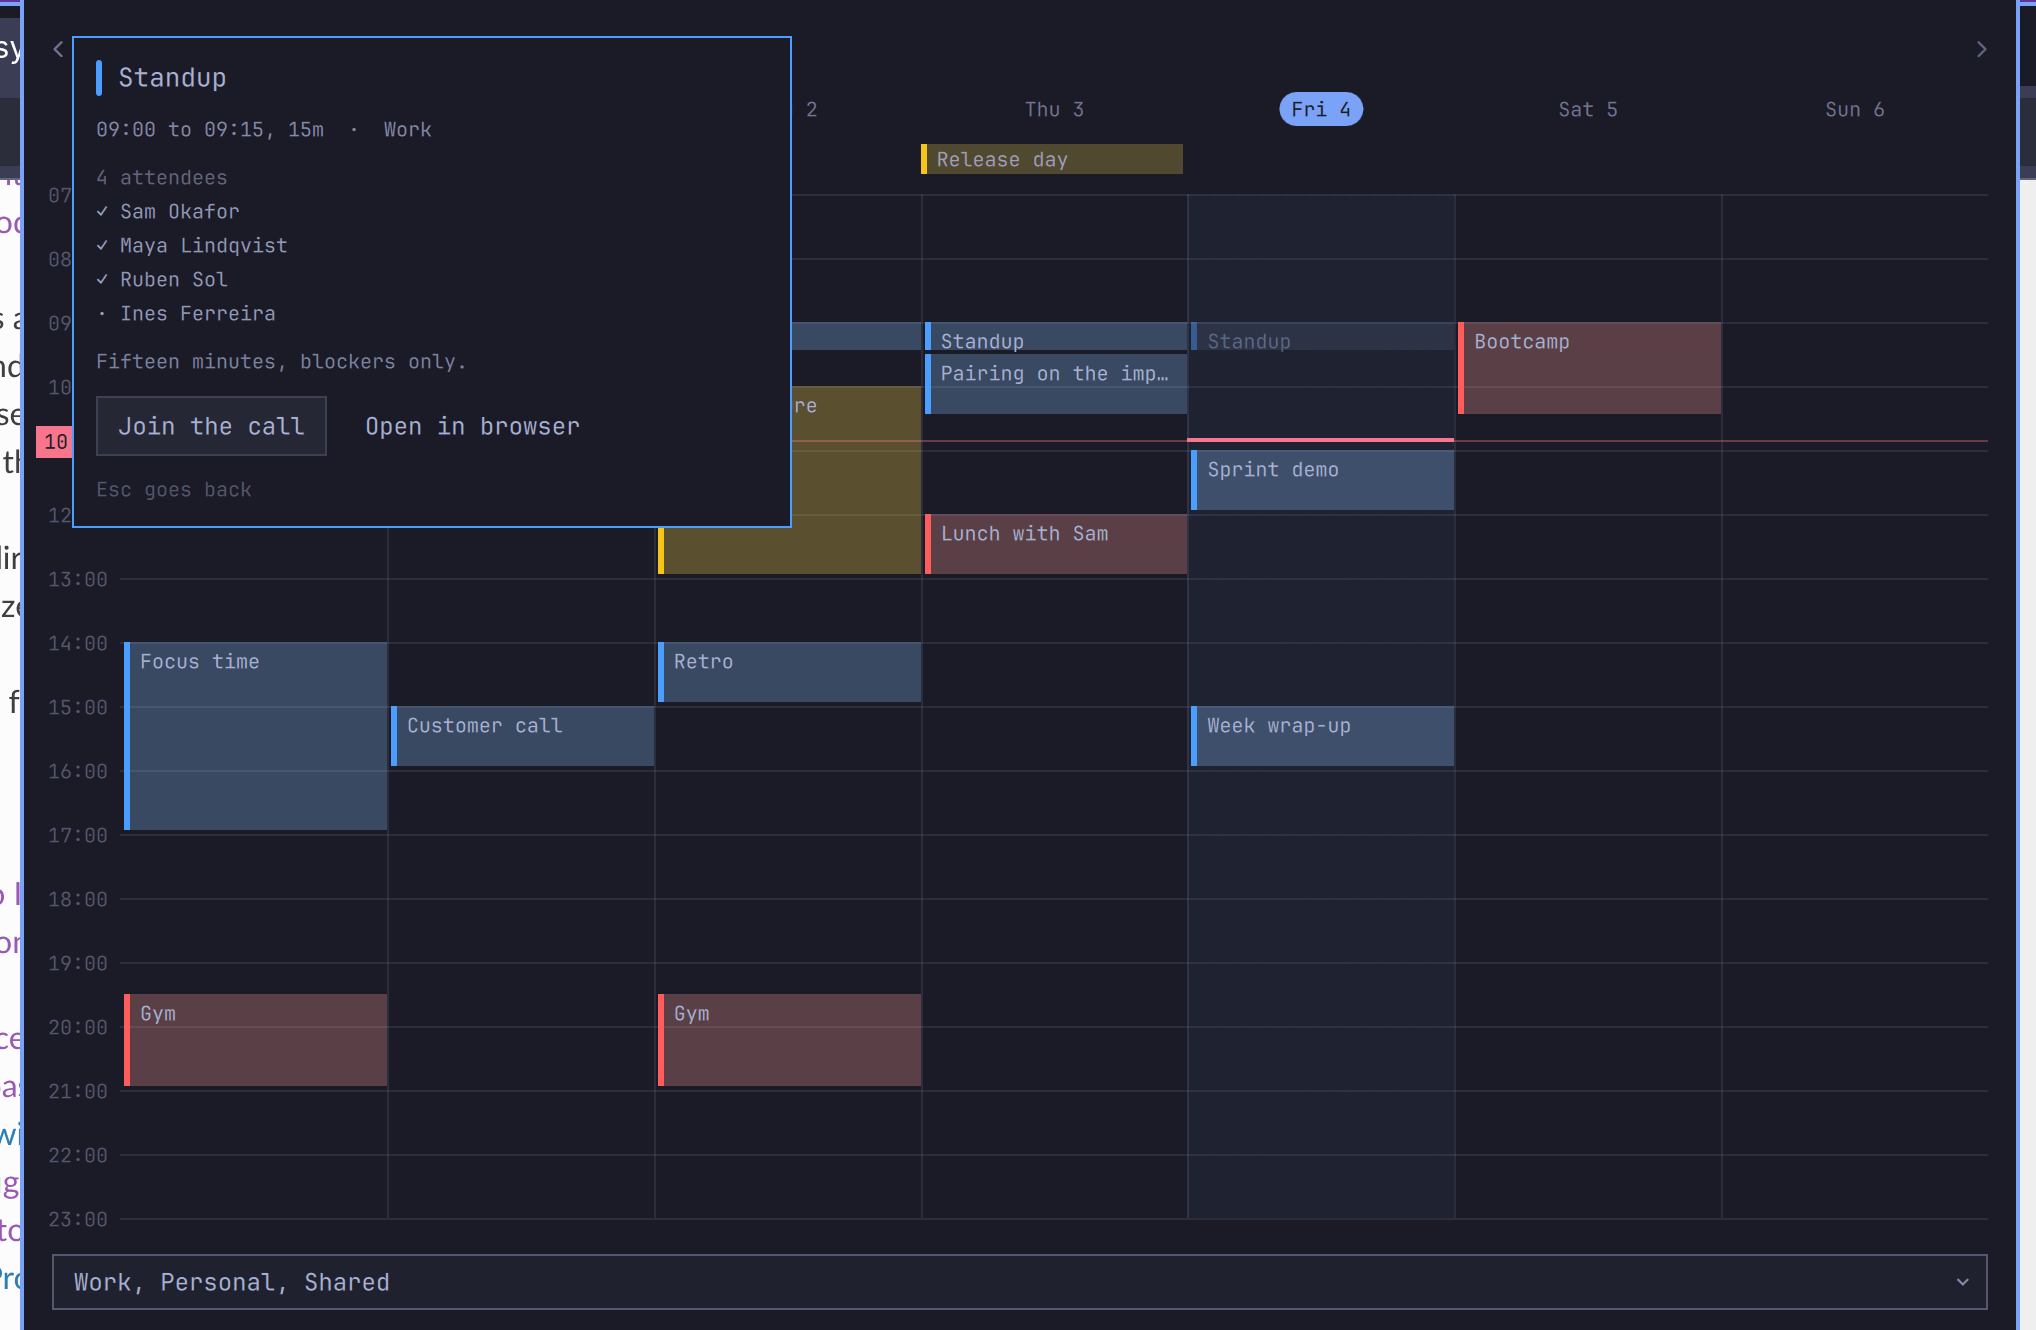
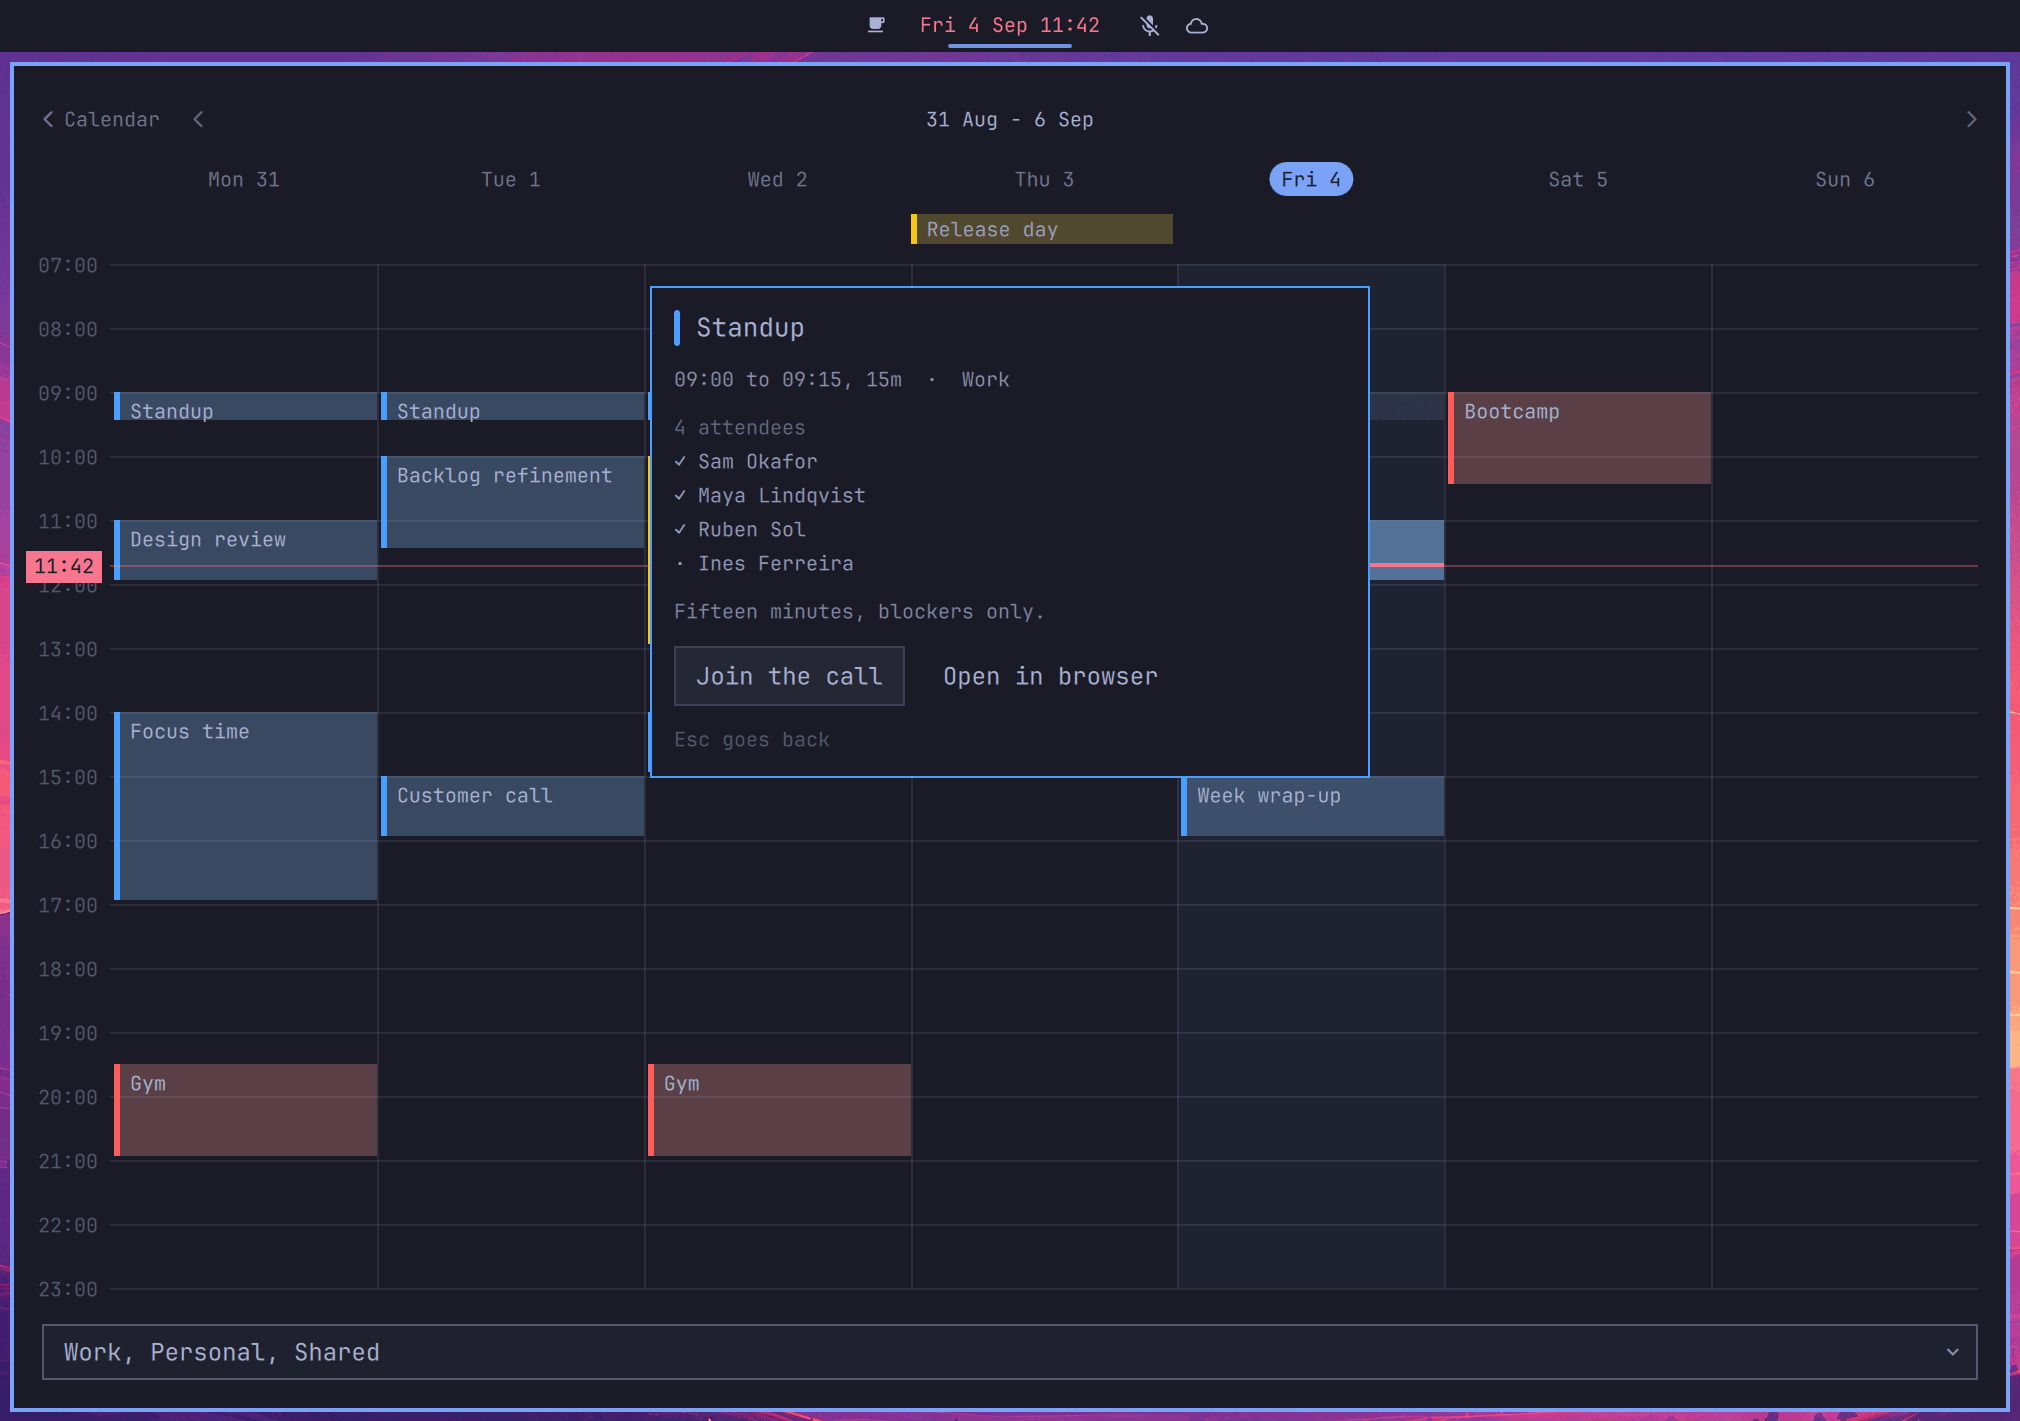
Retake the README screenshots on a clean workspace
All four now: shot on an empty workspace (no windows), include the centred
slice of the top bar above the popup, and are cropped to a uniform
week/month width with even margins — measured from the card's own bounds
rather than eyeballed.

Also:
- Panel.qml: measureAnchor() floats the detail card over the grid when it's
  opened without a block to anchor to (keyboard, agenda shortcut) instead of
  pinning it to the top-left corner.
- rfdegroot.clock.test gains geom() (card x/y/w/h) for repeatable captures.

Claude-Session: https://claude.ai/code/session_012fjqUAJytELryDyhZLYRvz

diff --git a/Panel.qml b/Panel.qml
@@ -697,7 +697,14 @@ Panel {
   }
 
   function measureAnchor() {
-    if (!cursorItem) return
+    if (!cursorItem) {
+      // Opened without a block to hang off (keyboard, agenda shortcut): float
+      // the card over the grid rather than pinning it to the corner.
+      detailAnchorX = Math.max(Style.space(10), keyCatcher.width / 2 - Style.space(180))
+      detailAnchorY = Style.space(90)
+      detailAnchorHeight = 0
+      return
+    }
     var point = cursorItem.mapToItem(keyCatcher, 0, 0)
     detailAnchorX = point.x
     detailAnchorY = point.y
@@ -992,6 +999,16 @@ Panel {
             : [])
       if (pool.length > 0) root.openEvent(pool[0])
       return JSON.stringify({ opened: !!root.detailEvent })
+    }
+    // Screen-space geometry of the popup card, for pixel-perfect screenshots.
+    function geom(): string {
+      return JSON.stringify({ x: Math.round(panel.cardOrigin.x),
+                              y: Math.round(panel.cardOrigin.y),
+                              w: Math.round(panel.contentWidth),
+                              h: Math.round(panel.contentHeight),
+                              barH: Math.round(panel.barH),
+                              screenW: Math.round(panel.screenW),
+                              screenH: Math.round(panel.screenH) })
     }
   }
 
